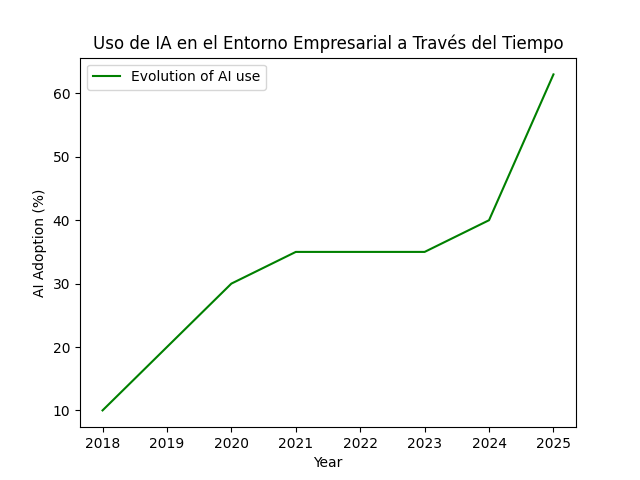
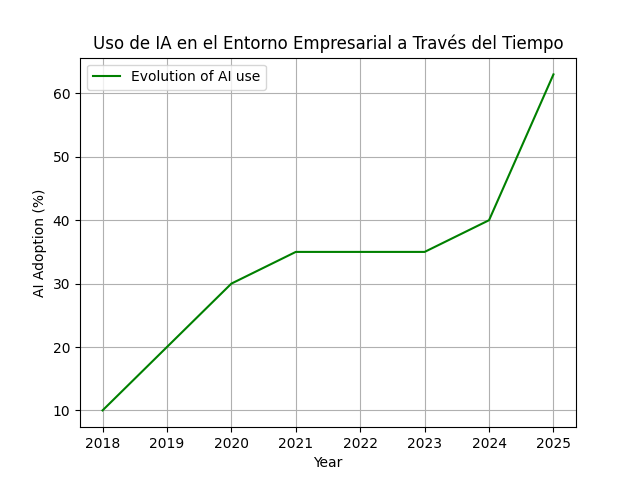
nn

diff --git a/templates/analysis.html b/templates/analysis.html
@@ -23,17 +23,70 @@
         <section class="analysis">
             <h2>Análisis de Datos</h2>
             <p>A continuación, exploramos varios factores que muestran cómo la IA ha impactado el mercado laboral a lo largo de los años.</p>
+
             <div class="chart-container">
+                <h3>¿Cuántos trabajos ha eliminado y creado la IA a lo largo de los años?</h3>
                 <img src="{{ url_for('static', filename='images/plot.png') }}" alt="Gráfica de Impacto de la IA">
-                <img src="{{ url_for('static', filename='images/plot2.png') }}" alt="Gráfica 2 de Impacto de la IA">
-                <img src="{{ url_for('static', filename='images/plot3.png') }}" alt="Gráfica 3 de Impacto de la IA">
+                <p>Podemos observar que a lo largo de los años han aumentado los puestos eliminados al igual que los nuevos puestos de trabajo</p>
+                <p>teniendo en cuenta que lo ideal en un futuro es que la cantidad de empleos destruidos sean menores a los creados.</p>
             </div>
-            <p>Observaciones y análisis de los datos:</p>
+
+            <div class="chart-container">
+                <h3>¿Cómo ha evolucionado la adopción de la IA en el tiempo?</h3>
+                <img src="{{ url_for('static', filename='images/plot2.png') }}" alt="Gráfica 2 de Impacto de la IA">
+                <p>La adopción de IA ha mostrado un aumento en los últimos años, con un crecimiento significativo en el entorno empresarial.</p>
+            </div>
+
+            <div class="chart-container">
+                <h3>¿Cuántas empresas usan IA y cuántas planean implementarla?</h3>
+                <img src="{{ url_for('static', filename='images/plot3.png') }}" alt="Gráfica 3 de Impacto de la IA">
+                <p>Esta gráfica ilustra el aumento en el número de organizaciones que ya usan IA y aquellas que están planeando implementarla en un futuro cercano.</p>
+            </div>
+
+            <div class="chart-container">
+                <h3>¿La IA siempre fue lo que es hoy en día?</h3>
+                <img src="{{ url_for('static', filename='images/plot4.png') }}" alt="Gráfica del Progreso de la IA">
+                <p>El progreso de la IA ha sido irregular, con pausas durante los inviernos, pero ha acelerado desde 2000, alcanzando grandes avances en los últimos años.</p>
+                <h1>¿Sabian que la IA a tenido dos 'inviernos' a lo largo de los años?</h1>
+                <p>1970 - 1980: Comienzo del primer "invierno de la IA", cuando las expectativas no se cumplieron y la financiación disminuyó.</p>
+                <p>1987 - 1993:  Comienzo del segundo "invierno de la IA", cuando los sistemas expertos no cumplieron con las expectativas.</p>
+                <h1>¿Como logro la IA salir de alli?</h1>
+                <ul>
+                    <li>1998: Redes Neuronales Convolusionales.</li>
+                    <li>2000 en adelante: Big Data</li>
+                    <li>2006: Algoritmos de Aprendizaje Profundo, GPU y Hardware Especializado:.</li>
+                    <li>2011: Asistentes virtuales (lanzamiento de Siri)</li>
+                    <li>2016: Deep Learning (Victoria de la red neuronal profunda de Google DeepMind sobre un campeón humano en el juego de Go)</li>
+                    <li>Actualidad: La nueva versión de Optimus lanzada en octubre de 2024 presenta importantes avances en inteligencia artificial y diseño físico, lo que le permite realizar una variedad más amplia de tareas y mejorar su interacción con los humanos.</li>
+                </ul>
+            </div>
+
+            <hr>
+            <h1>Observaciones y análisis de los datos:</h1>
             <ul>
                 <li>La adopción de IA ha ido en aumento, alcanzando un 40% en 2024.</li>
                 <li>Se espera que los empleos eliminados por la IA aumenten, pero también se crearán nuevos trabajos.</li>
-                <li>La inversión en software de IA ha crecido significativamente en los últimos años.</li>
+                <li>La IA no siempre estuvo en auge.</li>
+                <li>Para el entorno tan cambiante de una forma aceledara en el que estamos es esencial tener claras las habilidades necesarias para el futuro (EL FUTURO ES AHORA)</li>
             </ul>
+            <hr>
+
+            <div class="extra-container">
+                <h2 class="extra-title">¡Extra! Habilidades Necesarias para el Futuro</h2>
+                <p class="extra-intro">En un mundo en constante cambio impulsado por la inteligencia artificial, aquí están las habilidades que te ayudarán a destacarte:</p>
+                <ul class="extra-skills-list">
+                    <li><strong>Pensamiento Analítico:</strong> Capacidad para descomponer problemas complejos y tomar decisiones informadas.</li>
+                    <li><strong>Pensamiento Creativo:</strong> Innovación y generación de ideas nuevas y efectivas.</li>
+                    <li><strong>Resiliencia, Flexibilidad y Agilidad:</strong> Adaptación a los cambios y superación de obstáculos.</li>
+                    <li><strong>Motivación y Autoconciencia:</strong> Comprender tus propias emociones y motivaciones para mejorar el rendimiento.</li>
+                    <li><strong>Curiosidad y Aprendizaje Continuo:</strong> Deseo de aprender y adaptarse a nuevas situaciones y conocimientos.</li>
+                    <li><strong>Alfabetización Tecnológica:</strong> Competencia en el uso de tecnologías digitales y herramientas de IA.</li>
+                    <li><strong>Empatía y Escucha Activa:</strong> Comprensión de las emociones y necesidades de los demás.</li>
+                    <li><strong>Liderazgo e Influencia Social:</strong> Capacidad para guiar y motivar a otros en un entorno colaborativo.</li>
+                </ul>
+                <p class="extra-conclusion">Dominar estas habilidades no solo te permitirá sobrevivir, ¡sino también prosperar en el futuro laboral!</p>
+            </div>
+            
         </section>
     </main>
 

diff --git a/static/css/styles.css b/static/css/styles.css
@@ -47,10 +47,10 @@ nav ul li a {
 }
 
 nav ul li a:hover {
-    background-color: #145DA0; /* Cambié a un color más claro para el hover */
-    color: #fff; /* Texto blanco al pasar el mouse */
-    transform: translateY(-3px); /* Mueve el botón hacia arriba */
-    box-shadow: 0 4px 10px rgba(0, 0, 0, 0.3); /* Sombra al pasar el mouse */
+    background-color: #145DA0; 
+    color: #fff; 
+    transform: translateY(-3px); 
+    box-shadow: 0 4px 10px rgba(0, 0, 0, 0.3); 
 }
 
 nav ul li a.active {
@@ -102,53 +102,53 @@ ul li:hover {
 
 /* Form styles */
 .contact-form {
-    max-width: 600px; /* Limitar el ancho del formulario */
-    margin: auto; /* Centrar el formulario */
+    max-width: 600px;
+    margin: auto;
     padding: 20px;
-    background-color: #f9f9f9; /* Fondo claro para el formulario */
+    background-color: #f9f9f9; 
     border-radius: 8px;
     box-shadow: 0 2px 10px rgba(0, 0, 0, 0.1);
 }
 
 .contact-form label {
-    display: block; /* Mostrar etiquetas en bloque */
+    display: block; 
     margin: 10px 0 5px;
-    color: #333; /* Color del texto de las etiquetas */
+    color: #333; /
 }
 
 .contact-form input,
 .contact-form textarea,
 .contact-form select {
-    width: 100%; /* Ancho completo */
-    padding: 10px; /* Espaciado interno */
-    margin-bottom: 10px; /* Espacio entre campos */
-    border: 1px solid #ccc; /* Borde suave */
-    border-radius: 4px; /* Bordes redondeados */
-    transition: border-color 0.3s, box-shadow 0.3s; /* Transición suave para el borde */
+    width: 100%; 
+    padding: 10px; 
+    margin-bottom: 10px; 
+    border: 1px solid #ccc; 
+    border-radius: 4px; 
+    transition: border-color 0.3s, box-shadow 0.3s; 
 }
 
 .contact-form input:focus,
 .contact-form textarea:focus,
 .contact-form select:focus {
-    border-color: #061E47; /* Color del borde al enfocar */
-    box-shadow: 0 0 5px rgba(0, 0, 255, 0.5); /* Sombra suave al enfocar */
+    border-color: #061E47; 
+    box-shadow: 0 0 5px rgba(0, 0, 255, 0.5); 
 }
 
 button {
-    width: 100%; /* Ancho completo */
-    padding: 10px; /* Espaciado interno */
-    background-color: #061E47; /* Color de fondo */
-    color: white; /* Color del texto */
-    border: none; /* Sin borde */
-    border-radius: 4px; /* Bordes redondeados */
-    cursor: pointer; /* Cambiar cursor al pasar */
-    transition: background-color 0.3s, transform 0.3s, box-shadow 0.3s; /* Transición suave para el color de fondo */
+    width: 100%; 
+    padding: 10px; 
+    background-color: #061E47; 
+    color: white; 
+    border: none; 
+    border-radius: 4px; 
+    cursor: pointer; 
+    transition: background-color 0.3s, transform 0.3s, box-shadow 0.3s; 
 }
 
 button:hover {
-    background-color: #0000FF; /* Color de fondo al pasar el mouse */
-    transform: translateY(-3px); /* Mueve el botón hacia arriba */
-    box-shadow: 0 4px 10px rgba(0, 0, 0, 0.2); /* Sombra al pasar el mouse */
+    background-color: #0000FF; 
+    transform: translateY(-3px);
+    box-shadow: 0 4px 10px rgba(0, 0, 0, 0.2); 
 }
 
 /* Chart container */
@@ -206,18 +206,18 @@ hr {
 .button {
     display: inline-block;
     padding: 10px 20px;
-    background-color: #061E47; /* Color de fondo */
-    color: white; /* Color del texto */
+    background-color: #061E47; 
+    color: white; 
     text-align: center;
-    text-decoration: none; /* Sin subrayado */
-    border-radius: 5px; /* Bordes redondeados */
-    transition: background-color 0.3s ease; /* Transición suave para el color de fondo */
+    text-decoration: none; 
+    border-radius: 5px; 
+    transition: background-color 0.3s ease; 
 }
 
 .button:hover {
-    background-color: #eee; /* Color de fondo al pasar el mouse */
+    background-color: #eee; 
     color: #050A30;
-    transform: translateY(-3px); /* Mueve el botón hacia arriba */
+    transform: translateY(-3px); 
 }
 
 /* Intro section */
@@ -308,4 +308,38 @@ hr {
     transform: scale(1.05);
 }
 
+.extra-container {
+    background-color: #c6dce3; 
+    border: 2px solid #050A30; 
+    border-radius: 10px; 
+    padding: 20px; 
+    margin: 20px 0; 
+    box-shadow: 0 4px 8px rgba(0, 0, 0, 0.1); 
+}
+
+.extra-title {
+    color: #050A30; 
+    text-align: center; 
+}
+
+.extra-intro {
+    font-weight: bold; 
+    margin-bottom: 15px; 
+    text-align: center; 
+}
+
+.extra-skills-list {
+    list-style-type: none; 
+    padding: 0; 
+}
+
+.extra-skills-list li {
+    margin: 10px 0; 
+    font-size: 1.1em; 
+}
+
+.extra-conclusion {
+    margin-top: 15px; 
+    text-align: center; 
+}
 

diff --git a/templates/index.html b/templates/index.html
@@ -26,7 +26,6 @@
             <img src="https://media0.giphy.com/media/v1.Y2lkPTc5MGI3NjExanZucWl4YmFpb3JzNWgxNmh0dnh0b2twa3BwbmdvMXdlajZyMjUxeiZlcD12MV9pbnRlcm5hbF9naWZfYnlfaWQmY3Q9Zw/17tgpvlWvAVRQPFVpc/giphy.webp" alt="IA GIF" class="intro-image">
         </section>
 
-        <!-- Nueva sección de Objetivo del Proyecto -->
         <section class="objective">
             <h2>Objetivo del Proyecto</h2>
             <p>Este proyecto tiene como objetivo analizar el auge de la inteligencia artificial a lo largo de los años y su impacto en diferentes sectores laborales. A través de este análisis, buscamos responder las siguientes preguntas clave:</p>

diff --git a/index.py b/index.py
@@ -4,6 +4,7 @@ import pandas as pd
 import matplotlib.pyplot as plt
 from flask import Flask, render_template
 
+
 #Creando una app (objeto) a partir de una clase(Flask)
 #para poder controlar nuestra aplicación y desplegarla 
 #correctamente
@@ -53,6 +54,7 @@ def analysis():
     plt.ylabel('AI Adoption (%)')
     plt.title('Uso de IA en el Entorno Empresarial a Través del Tiempo')
     plt.legend()
+    plt.grid(True)
     
     plt.savefig('static/images/plot2.png')
     plt.close()
@@ -72,14 +74,52 @@ def analysis():
     plt.ylabel('Use of AI (%)')
     plt.title('Empresas que Usan y que Planean Usar')
     plt.legend()
+    plt.grid(True)
     
     plt.savefig('static/images/plot3.png')
     plt.close()
-    
+
+    # Grafico 4
+    years = list(range(1956, 2024))
+
+    progress = []
+
+    for year in years:
+        if 1956 <= year < 1970:
+            progress.append(10)  # Avances iniciales lentos
+        elif 1970 <= year < 1980:
+            progress.append(20)  # Primer invierno de la IA
+        elif 1980 <= year < 1987:
+            progress.append(30)  # Salida del primer invierno, pequeños avances
+        elif 1987 <= year < 1993:
+            progress.append(30)  # Segundo invierno de la IA
+        elif 1993 <= year < 1997:
+            progress.append(35)  # Final del segundo invierno, avances moderados
+        elif 1997 <= year < 2006:
+            progress.append(45)  # Avances tras Deep Blue
+        elif 2006 <= year < 2012:
+            progress.append(60)  # Avances en redes neuronales profundas
+        elif 2012 <= year < 2018:
+            progress.append(75)  # Grandes avances en reconocimiento de imagen y NLP
+        elif 2018 <= year < 2021:
+            progress.append(85)  # Modelos generativos (GPT-3)
+        elif 2021 <= year <= 2023:
+            progress.append(95)  # GPT-4 y DALL-E 3
+        else:
+            progress.append(100)  # Estado actual de la IA en 2023
+
+    plt.figure(figsize=(10, 6))
+    plt.plot(years, progress, marker='o', linestyle='-', color='b')
+
+    plt.title('Progreso de la Inteligencia Artificial (1956-2023)')
+    plt.xlabel('Años')
+    plt.ylabel('Progreso de la IA (escala de 0 a 100)')
+    plt.grid(True)
+
+    plt.savefig('static/images/plot4.png')
+    plt.close()
     return render_template('analysis.html')
     
-    
-
 if __name__ =='__main__':
     # El modo debug reinicia automáticamente el servidor al hacer cambios,
     # pero es necesario recargar la página en el navegador para ver esos cambios.
